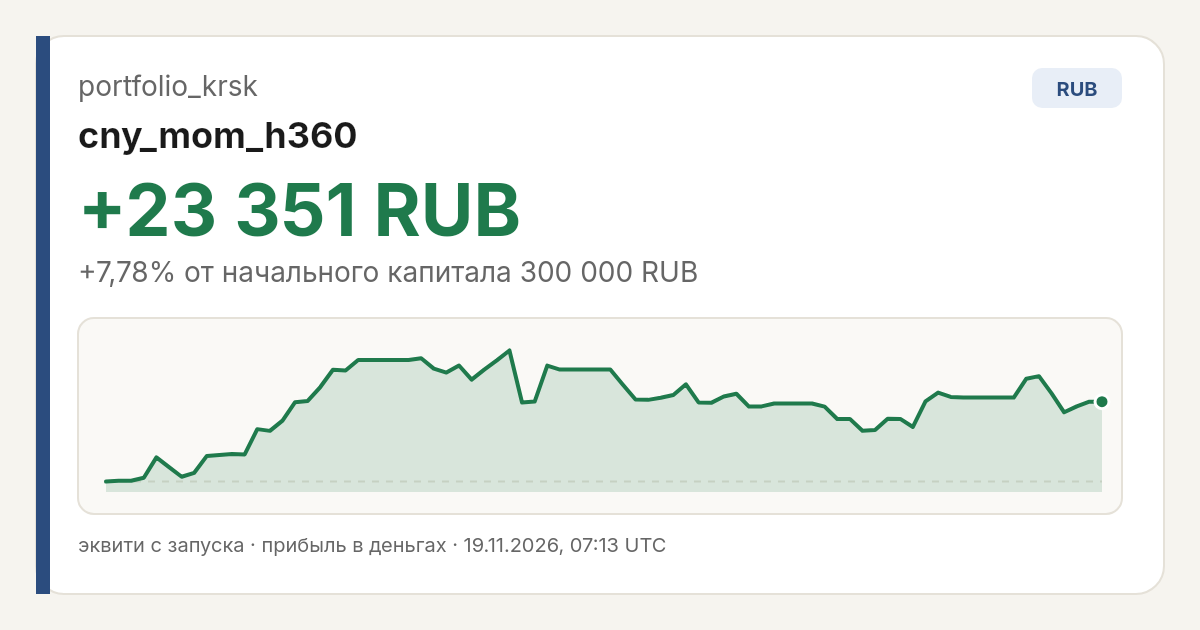
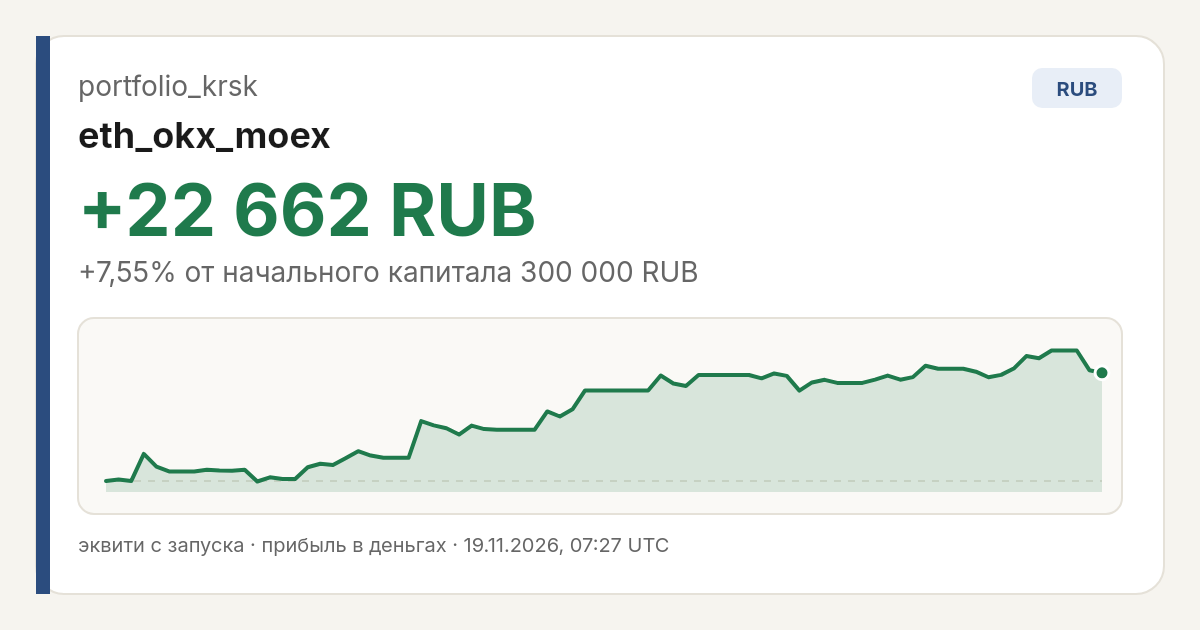
sync equity data 2026-11-19T07:27:05Z

diff --git a/share.html b/share.html
@@ -3,24 +3,24 @@
   <head>
     <meta charset="UTF-8" />
     <meta name="viewport" content="width=device-width, initial-scale=1.0" />
-    <title>portfolio_krsk - cny_mom_h360</title>
-    <meta name="description" content="cny_mom_h360: +23 351 RUB (+7,78%) с запуска. Лидер обложки выбран по доходности в процентах от начального капитала; суммы в разных валютах не сравниваются." />
-    <meta property="og:title" content="portfolio_krsk - cny_mom_h360" />
-    <meta property="og:description" content="cny_mom_h360: +23 351 RUB (+7,78%) с запуска. Лидер обложки выбран по доходности в процентах от начального капитала; суммы в разных валютах не сравниваются." />
+    <title>portfolio_krsk - eth_okx_moex</title>
+    <meta name="description" content="eth_okx_moex: +22 662 RUB (+7,55%) с запуска. Лидер обложки выбран по доходности в процентах от начального капитала; суммы в разных валютах не сравниваются." />
+    <meta property="og:title" content="portfolio_krsk - eth_okx_moex" />
+    <meta property="og:description" content="eth_okx_moex: +22 662 RUB (+7,55%) с запуска. Лидер обложки выбран по доходности в процентах от начального капитала; суммы в разных валютах не сравниваются." />
     <meta property="og:url" content="https://portfolio-krsk.vercel.app/" />
     <meta property="og:site_name" content="portfolio_krsk" />
     <meta property="og:locale" content="ru_RU" />
     <meta property="og:type" content="website" />
-    <meta property="og:image" content="https://varshavskiy1-beep.github.io/portfolio-krsk/og-cover.jpg?v=202611190713" />
-    <meta property="og:image:secure_url" content="https://varshavskiy1-beep.github.io/portfolio-krsk/og-cover.jpg?v=202611190713" />
+    <meta property="og:image" content="https://varshavskiy1-beep.github.io/portfolio-krsk/og-cover.jpg?v=202611190727" />
+    <meta property="og:image:secure_url" content="https://varshavskiy1-beep.github.io/portfolio-krsk/og-cover.jpg?v=202611190727" />
     <meta property="og:image:type" content="image/jpeg" />
     <meta property="og:image:width" content="1200" />
     <meta property="og:image:height" content="630" />
-    <link rel="image_src" href="https://varshavskiy1-beep.github.io/portfolio-krsk/og-cover.jpg?v=202611190713" />
+    <link rel="image_src" href="https://varshavskiy1-beep.github.io/portfolio-krsk/og-cover.jpg?v=202611190727" />
     <meta name="twitter:card" content="summary_large_image" />
-    <meta name="twitter:title" content="portfolio_krsk - cny_mom_h360" />
-    <meta name="twitter:description" content="cny_mom_h360: +23 351 RUB (+7,78%) с запуска. Лидер обложки выбран по доходности в процентах от начального капитала; суммы в разных валютах не сравниваются." />
-    <meta name="twitter:image" content="https://varshavskiy1-beep.github.io/portfolio-krsk/og-cover.jpg?v=202611190713" />
+    <meta name="twitter:title" content="portfolio_krsk - eth_okx_moex" />
+    <meta name="twitter:description" content="eth_okx_moex: +22 662 RUB (+7,55%) с запуска. Лидер обложки выбран по доходности в процентах от начального капитала; суммы в разных валютах не сравниваются." />
+    <meta name="twitter:image" content="https://varshavskiy1-beep.github.io/portfolio-krsk/og-cover.jpg?v=202611190727" />
     <meta http-equiv="refresh" content="0; url=/" />
     <script>location.replace("/")</script>
     <style>
@@ -49,9 +49,9 @@
   </head>
   <body>
     <main>
-      <img src="https://varshavskiy1-beep.github.io/portfolio-krsk/og-cover.jpg?v=202611190713" alt="portfolio_krsk - cny_mom_h360" width="1200" height="630" />
+      <img src="https://varshavskiy1-beep.github.io/portfolio-krsk/og-cover.jpg?v=202611190727" alt="portfolio_krsk - eth_okx_moex" width="1200" height="630" />
       <noscript>
-        <p>cny_mom_h360: +23 351 RUB (+7,78%) с запуска. Лидер обложки выбран по доходности в процентах от начального капитала; суммы в разных валютах не сравниваются.</p>
+        <p>eth_okx_moex: +22 662 RUB (+7,55%) с запуска. Лидер обложки выбран по доходности в процентах от начального капитала; суммы в разных валютах не сравниваются.</p>
         <p><a href="/">Открыть кабинет portfolio_krsk</a></p>
       </noscript>
     </main>
